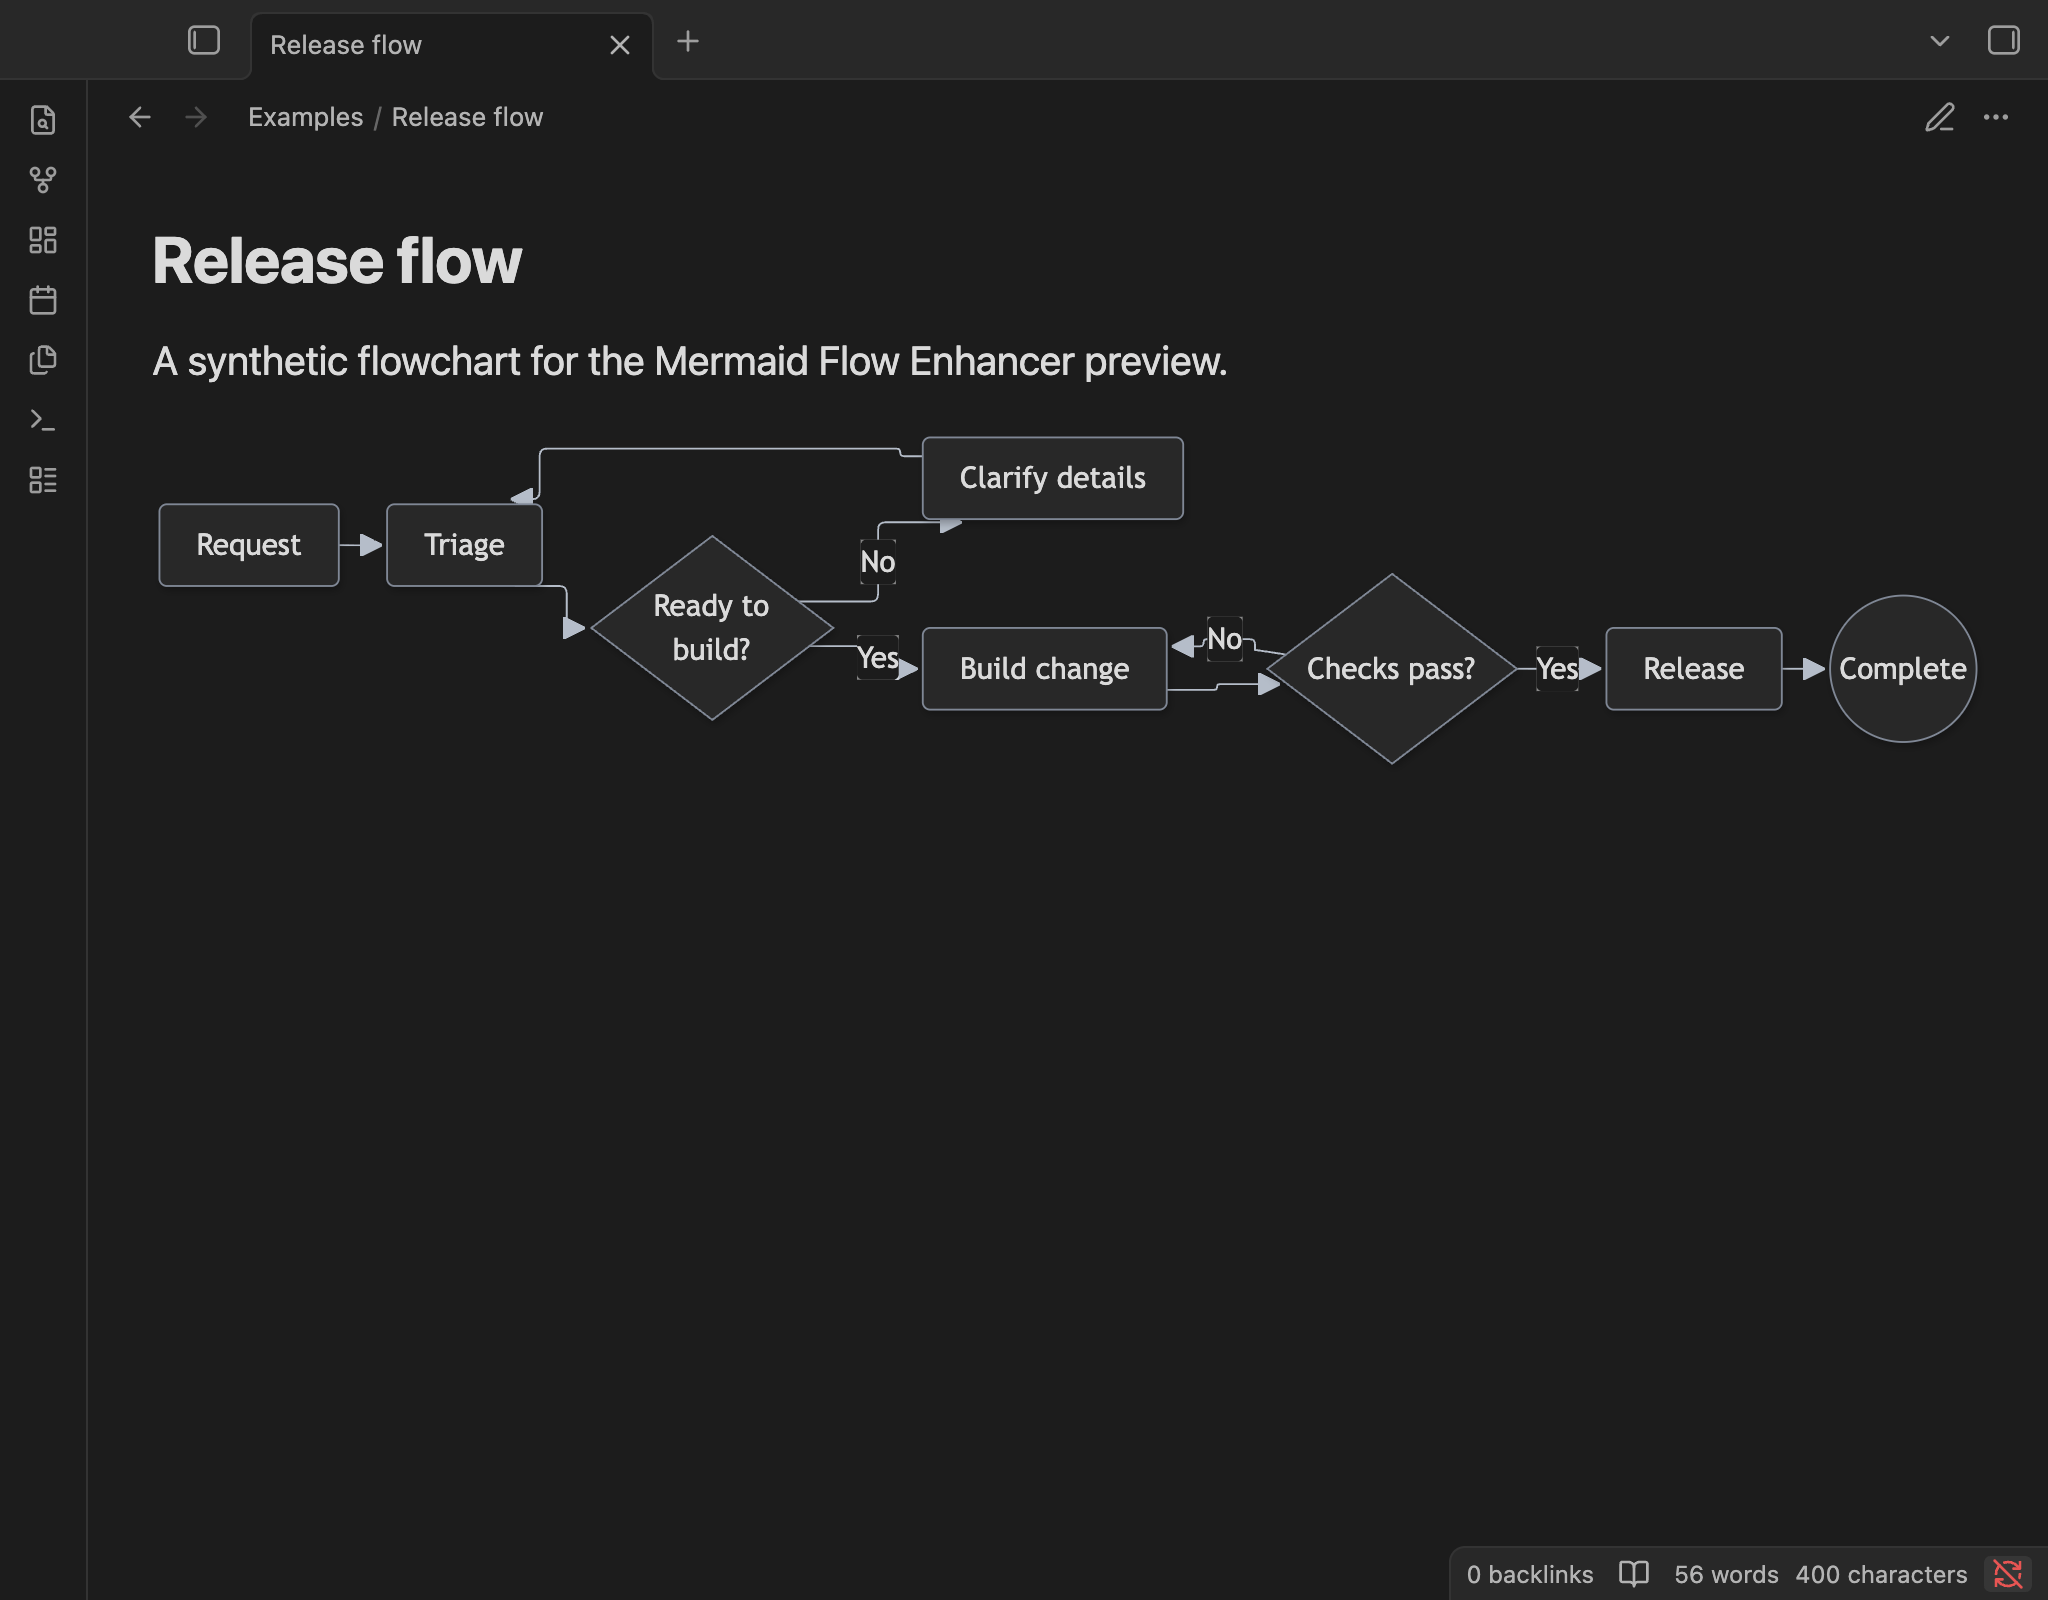
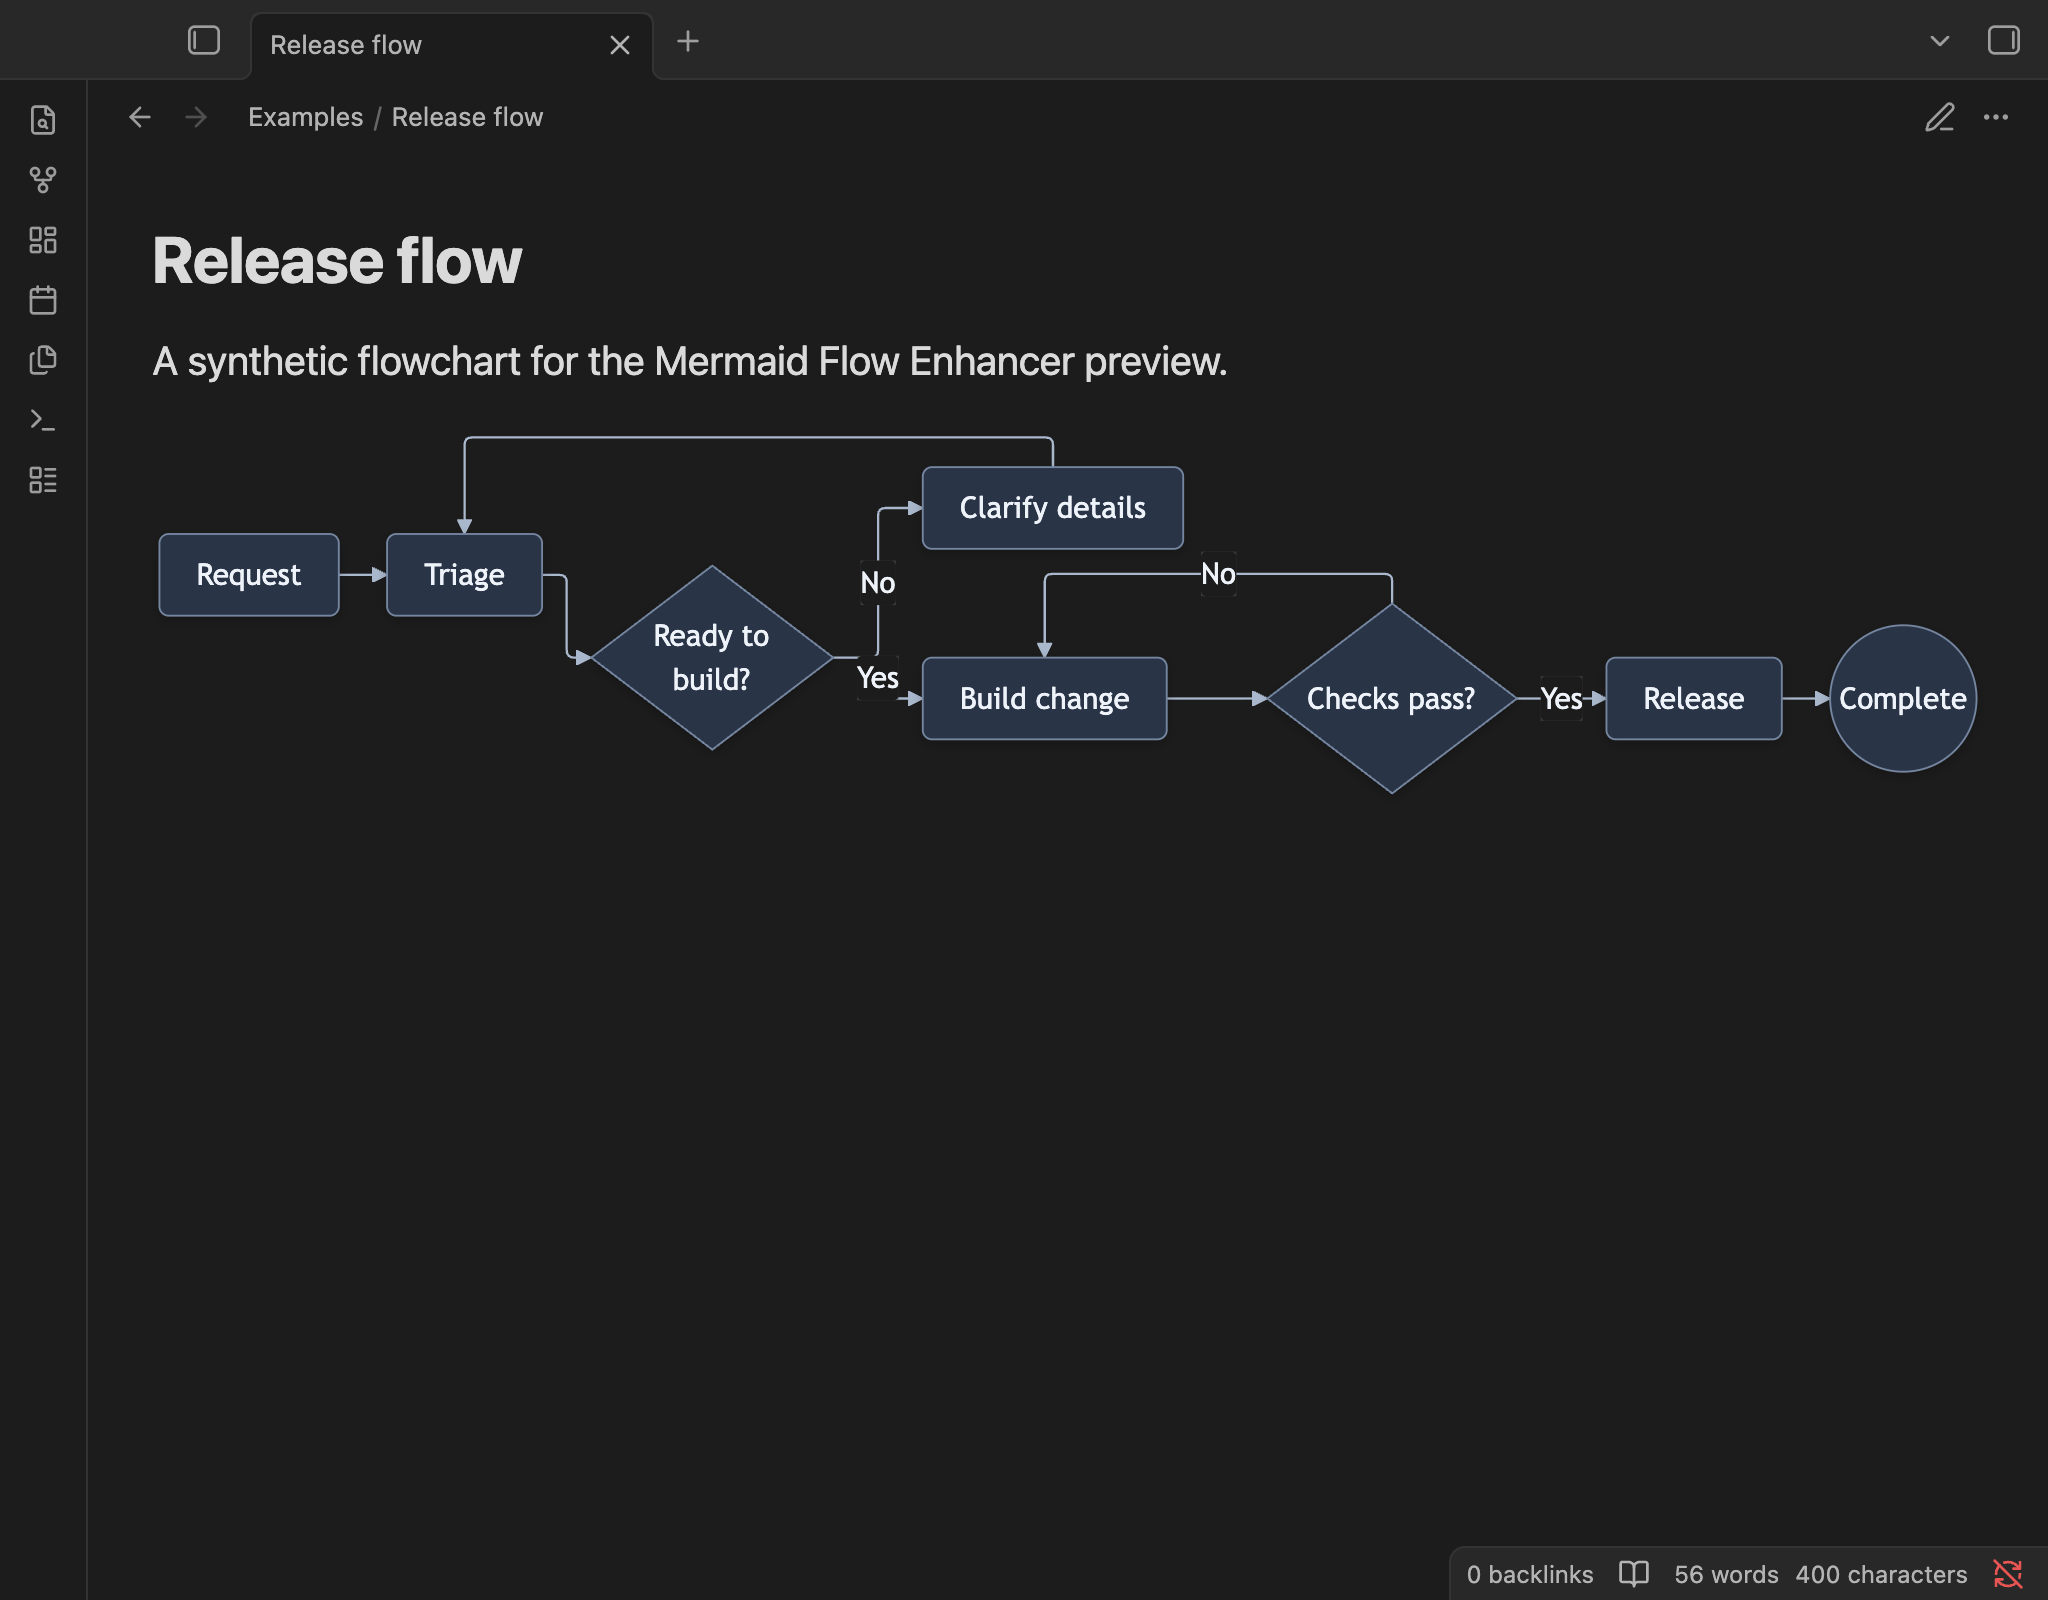
Refresh real Obsidian previews and record 0.1.2 validation

Changed region(s): [[0.0625, 0.2812, 0.9688, 0.5], [0.2812, 0.25, 0.4375, 0.2812]]

diff --git a/docs/assets/obsidian-capture-report.md b/docs/assets/obsidian-capture-report.md
@@ -1,13 +1,11 @@
 # Obsidian app capture report
 
-Captured from the real Obsidian app, vault `mermaid-flow-enhancer-demo`, with the community plugin enabled. The note at `Examples/Release flow.md` is a synthetic fixture created by the recorder.
-Frames came from the official `obsidian dev:screenshot` command. Pointer movement used `Input.dispatchMouseEvent` through `obsidian dev:cdp`.
-The first dark-theme capture exposed Obsidian's native Mermaid inversion filter on the enhanced SVG. The plugin CSS fix now disables that filter only for the enhanced SVG; the verified dark values are {"dark":true,"fill":"rgb(40, 40, 40)","text":"rgb(218, 218, 218)","line":"rgb(179, 189, 202)","svgFilter":"none"}.
+The light and dark screenshots show plugin 0.1.2 in real Obsidian 1.14.2, using the clean `mermaid-flow-enhancer-demo` vault and synthetic `Examples/Release flow.md` fixture. Frames came from the official `obsidian dev:screenshot` command.
 
-The path GIF uses 10 real screenshots over about 8.8 s. The MP4 uses 18 screenshots over about 14.5 s (average 1.24 screenshots/s; observed capture intervals 483-2800 ms). The MP4 preserves those recorded intervals. Screenshot sampling is not a high-frame-rate screen recording, so the clip shows genuine app states but does not reproduce each 450 ms transition at full display refresh.
+Live SVG verification measured 9 edges: all 18 endpoints attach to shape-side midpoints, with maximum deviation below 0.001 CSS px. All referenced arrow markers are 8 × 8. The dark enhanced SVG has no inversion filter. Screenshots were visually checked in both themes.
 
-No errors were reported by `obsidian dev:errors` after capture.
+The GIF and MP4 remain recordings of plugin 0.1.0. Pointer movement used `Input.dispatchMouseEvent` through `obsidian dev:cdp`. The GIF uses 10 real screenshots over about 8.8 seconds; the MP4 uses 18 over about 14.5 seconds and preserves their recorded intervals. Screenshot sampling does not reproduce every animation frame at full display refresh. The GIF is 0.07 MiB and MP4 is 0.17 MiB.
 
-The path GIF is 0.07 MiB. The actual-app MP4 is 0.17 MiB and spans about 14.5 seconds.
+The recorder now removes an existing screenshot destination before capture and verifies centered endpoints and marker size. A fresh diagram render is required after upgrading because Obsidian can retain cached Mermaid SVGs.
 
-This is a smoke recording from one Obsidian build, theme setup, and machine; it is not a cross-version compatibility or performance benchmark.
+No errors were reported by `obsidian dev:errors` after plugin verification. This is a smoke check from one Obsidian build, theme setup, and machine, not a cross-version compatibility or performance benchmark.

diff --git a/docs/release-checklist.md b/docs/release-checklist.md
@@ -36,3 +36,11 @@ Directory releases use normal GitHub releases with numeric `x.y.z` tags. Keep be
 The downloaded release is installed and enabled in the disposable Downloads demo vault on Obsidian 1.14.2/macOS. Reload succeeds, enhanced SVG is present with `filter:none`, and the developer error log is empty. Demo preferences were preserved after the install test. The public listing now exposes an active Add to Obsidian link. The CLI catalogue install test reported “Plugin not found in community plugins”; direct catalogue installation remains unverified, so the release files were installed manually. No original user-vault plugin files were replaced.
 
 The official 0.1.1 directory scan completed on 2026-10-09 and made 0.1.1 the current version. Build verification reproduced the release JavaScript byte-for-byte. The remaining finding is a CSS warning about scoped `!important`, whose necessity and isolation are documented and browser-tested.
+
+## 0.1.2 release verification
+
+[Release 0.1.2](https://github.com/itsNikolay/obsidian-mermaid-flow-enhancer/releases/tag/0.1.2) refines the dark palette and centers connector attachments, including return paths, with 8px arrowheads. The [release workflow](https://github.com/itsNikolay/obsidian-mermaid-flow-enhancer/actions/runs/37959501468) passed all 34 tests (20 unit, 14 Chromium), built the plugin, and attested release assets. The lead also ran the full local check successfully. The three downloaded files match the local build byte-for-byte.
+
+New browser checks measure actual side-center positions and terminal tangents in TD/TB/BT/LR/RL, circles, and nested subgraphs, including Mermaid's native rounded quadratic paths. Actual Obsidian 1.14.2/macOS rendering in the disposable demo vault was refreshed with a versioned synthetic fixture: all 18 endpoints match shape side centers, the referenced pointEnd marker is 8×8, and the developer error log is empty. Cached diagrams may need a note refresh after a plugin update.
+
+The official 0.1.2 directory review completed and made 0.1.2 the current release. The directory verified both artifact attestations and reproduced the release JavaScript byte-for-byte; the remaining finding is the previously documented scoped CSS `!important` warning.

diff --git a/README.md b/README.md
@@ -8,13 +8,17 @@ Make Mermaid flowcharts easier to scan in Obsidian with compact node spacing, al
 
 ## Preview
 
-This GIF is recorded from the real Obsidian app, version 1.14.2, with the plugin enabled. It uses a synthetic fixture note.
+The screenshots show plugin 0.1.2 in the real Obsidian app, version 1.14.2, using a synthetic fixture note.
+
+![Refined dark theme and centered connector attachments](docs/assets/obsidian-preview-dark.png)
+
+The GIF and MP4 below were recorded with plugin 0.1.0. They demonstrate path highlighting; the screenshots show the current appearance and connector attachments.
 
 ![Ancestor path highlighting in a real Obsidian window](docs/assets/obsidian-path-highlight.gif)
 
 [Light screenshot](docs/assets/obsidian-preview-light.png) · [Dark screenshot](docs/assets/obsidian-preview-dark.png) · [Short app video](docs/assets/obsidian-preview.mp4) · [Capture report](docs/assets/obsidian-capture-report.md)
 
-Supplemental [browser previews](docs/assets/path-highlight.gif) show the same plugin layout and interaction using a browser test stand. [Theme preview](docs/assets/themes.gif) · [Compact layout preview](docs/assets/compact-layout.gif) · [Browser video](docs/assets/browser-preview.mp4) · [Print sample PDF](docs/assets/browser-preview-print.pdf). They are test-stand captures, not Obsidian recordings.
+Supplemental 0.1.0 [browser previews](docs/assets/path-highlight.gif) show the same plugin layout and interaction using a browser test stand. [Theme preview](docs/assets/themes.gif) · [Compact layout preview](docs/assets/compact-layout.gif) · [Browser video](docs/assets/browser-preview.mp4) · [Print sample PDF](docs/assets/browser-preview-print.pdf). They are test-stand captures, not Obsidian recordings.
 
 ## Features
 
